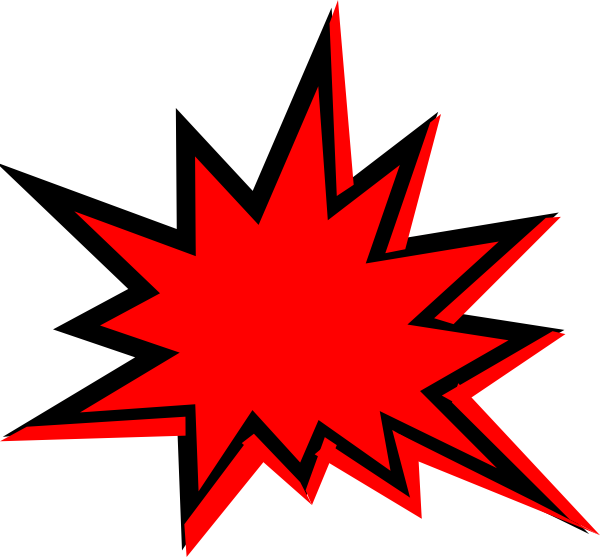
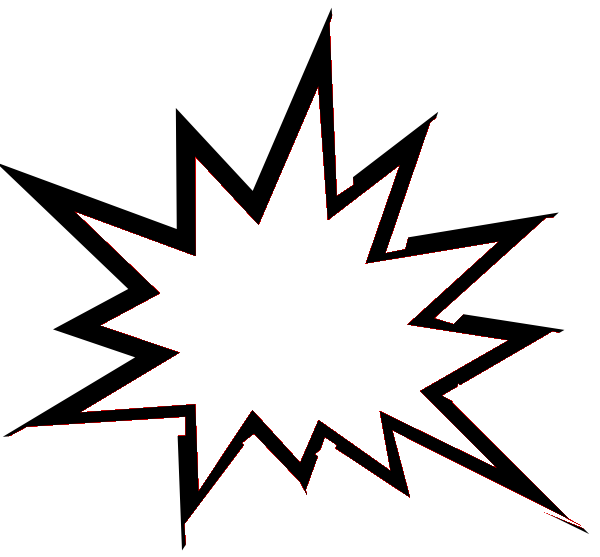
did some stuff

Changed region(s): [[0.0, 0.0, 1.0, 1.0], [0.12, 0.3662, 0.15, 0.3968]]

diff --git a/Assets/Scripts/Player.cs b/Assets/Scripts/Player.cs
@@ -12,7 +12,8 @@ public class Player : MonoBehaviour {
 #if UNITY_EDITOR
         if (Input.GetMouseButtonDown(0)) {
             Debug.Log(Input.mousePosition);
-            inputLoc = Input.mousePosition;
+            inputLoc = Camera.main.ScreenToWorldPoint(Input.mousePosition);
+            inputLoc.z = 0;
 #else
         foreach (Touch t in Input.touches) {
             if (t.phase == TouchPhase.Began) {
@@ -22,24 +23,27 @@ public class Player : MonoBehaviour {
             }
         }
 #endif
-            Vector3 pos = Camera.main.ScreenToWorldPoint(Input.mousePosition);
-            RaycastHit2D hit = Physics2D.Raycast(pos, Vector2.zero);
+            RaycastHit2D hit = Physics2D.Raycast(inputLoc, Vector2.zero);
             if (hit && hit.collider != null) {
                 Debug.Log("I'm hitting " + hit.collider.name);
                 foreach (TappableObject tp in hit.transform.gameObject.GetComponents<TappableObject>()) {
                     if (tp.GetType() != typeof(Building)) {
-                        DrawLine(inputLoc);
+                        DrawShot(inputLoc);
                     }
                     tp.OnTap();
                 }
             } else {
-                DrawLine(inputLoc);
+                DrawShot(inputLoc);
             }
         }
     }
 
-    void DrawLine(Vector3 position) {
-        LineDraw.lineQueue.Add(position);
+    void DrawShot(Vector3 position) {
+        GameObject g = (GameObject)Instantiate(GameManager.Instance.explosion, position, Quaternion.Euler(0, 0, Random.Range(0, 360.0f)));
+        Splosion s = g.GetComponent<Splosion>();
+        s.color = GameManager.Instance.ActiveBuilding.color;
+        s.Lifetime = GameManager.Instance.shotExplosionLife;
+        g.transform.localScale /= 2;
     }
 
     

diff --git a/Assets/Scripts/BasicShip.cs b/Assets/Scripts/BasicShip.cs
@@ -28,11 +28,14 @@ public class BasicShip : TappableObject {
 
     private void OnCollisionEnter2D(Collision2D collision) {
         Debug.Log("Collide Ship");
-        KillShip();
+        KillShip(r.color);
     }
 
-    void KillShip() {
-        Instantiate(explosion, transform.position, Quaternion.Euler(0, 0, Random.Range(0, 360.0f)));
+    void KillShip(Color c) {
+        GameObject g=(GameObject)Instantiate(GameManager.Instance.explosion, transform.position, Quaternion.Euler(0, 0, Random.Range(0, 360.0f)));
+        Splosion s = g.GetComponent<Splosion>();
+        s.color = c;
+        s.Lifetime = GameManager.Instance.shipExplosionLife;
         Destroy(this.gameObject);
     }
 
@@ -43,7 +46,7 @@ public class BasicShip : TappableObject {
         if (r.color != c) {
             GameManager.Instance.HitShip();
             if (c.r == c.g && c.g == c.b && c.b == 0) {
-                KillShip();
+                KillShip(b);
             }
             r.color = c;
         }

diff --git a/Assets/Scripts/Splosion.cs b/Assets/Scripts/Splosion.cs
@@ -3,11 +3,26 @@ using System.Collections;
 
 public class Splosion : MonoBehaviour {
 
-    public float lifetime = .5f;
+    SpriteRenderer r;
+
+    public Color color {
+        get {
+            return r.color;
+        }
+        set {
+            r.color = value;
+        }
+    }
+
+    public float Lifetime {
+        set {
+            StartCoroutine(DestroyLater(value));
+        }
+    }
 
 	// Use this for initialization
-	void Start () {
-        StartCoroutine(DestroyLater(lifetime));
+	void Awake () {
+        r = GetComponent<SpriteRenderer>();
 	}
 
     IEnumerator DestroyLater(float t) {

diff --git a/Assets/Scripts/GameManager.cs b/Assets/Scripts/GameManager.cs
@@ -20,6 +20,11 @@ public class GameManager : MonoBehaviour {
     public Transform[] buildings;
     public Text scoreDisplay;
     public SelectedBuilding selectedBuilding;
+    public GameObject explosion;
+
+    [Header("Asthetic Variables")]
+    public float shotExplosionLife=.2f;
+    public float shipExplosionLife=.5f;
 
     //Runtime Helpers
     Building activeBuilding;
